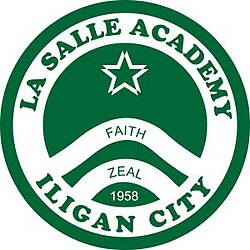
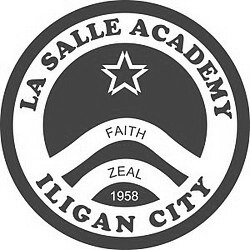
v1.5
-fixed the tab title logo and added black and white of company-1 logo.

diff --git a/index.html b/index.html
@@ -20,8 +20,7 @@
 <head>
   <meta charset="UTF-8" />
   <meta name="viewport" content="width=device-width, initial-scale=1.0" />
-  <link rel="icon" type="image/png" sizes="32x32" href="./images/favicon-32x32.png" />
-  <link rel="icon" type="image/png" sizes="16x16" href="./images/favicon-16x16.png" />
+  <link rel="shortcut icon" type="image/png" href="./images/favicon.png" />
 
   <!-- Put your site title here -->
   <title>

diff --git a/index.css b/index.css
@@ -552,6 +552,12 @@ body:not(.user-is-tabbing) a:focus {
     margin-bottom: var(--gutter-normal);
 }
 
+.about__photo {
+    max-width: 300px; /* Add this to limit the width */
+    height: auto; /* Maintain aspect ratio */
+    border-radius: 8px; /* Optional: add rounded corners */
+}
+
 @media(min-width: 901px) {
     .about__text {
         flex: 0 0 35%;
